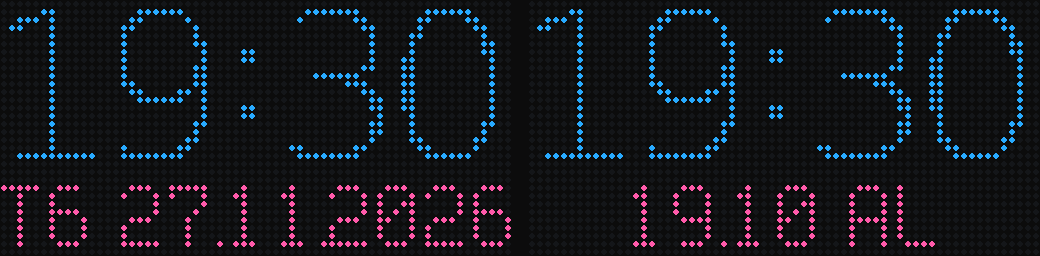
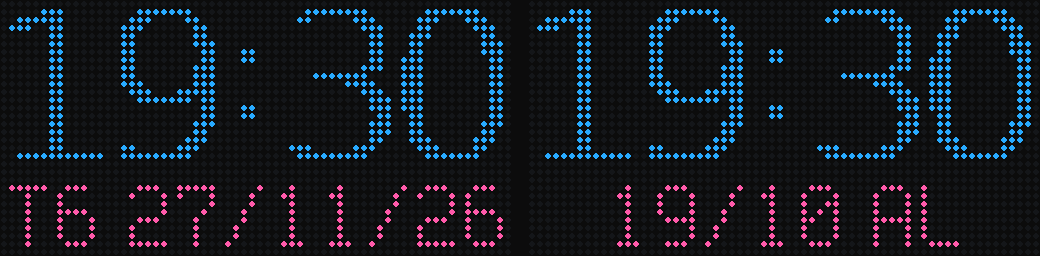
fix: thicken clock digits and use compact slash dates

diff --git a/main/gfx/clock_font.h b/main/gfx/clock_font.h
@@ -1,19 +1,19 @@
 // Sinh bằng tools/gen_clock_font.py. Không sửa tay.
-// Giờ: DejaVu Sans ExtraLight (Bitstream Vera/DejaVu).
+// Giờ: DejaVu Sans ExtraLight, thêm nét 1 px (Bitstream Vera/DejaVu).
 // Lịch: Spleen 6x12, Frederic Cambus (BSD-2-Clause).
 #pragma once
 #include <stdint.h>
 static const uint16_t CLOCK_DIGITS[10][19] = {
-    {0x3f0, 0x618, 0x40c, 0xc04, 0x806, 0x806, 0x1802, 0x1802, 0x1802, 0x1802, 0x1802, 0x1802, 0x1802, 0x802, 0x806, 0x804, 0xc0c, 0x608, 0x3f0},
-    {0xc0, 0x740, 0xc40, 0x40, 0x40, 0x40, 0x40, 0x40, 0x40, 0x40, 0x40, 0x40, 0x40, 0x40, 0x40, 0x40, 0x40, 0x40, 0x7fe},
-    {0x7f0, 0x1818, 0x100c, 0x4, 0x4, 0x4, 0x4, 0xc, 0x8, 0x10, 0x20, 0x40, 0x80, 0x180, 0x300, 0x600, 0xc00, 0x1800, 0x1ffe},
-    {0x7f0, 0x818, 0xc, 0x4, 0x4, 0x4, 0x4, 0xc, 0x3f0, 0x38, 0xc, 0x6, 0x6, 0x2, 0x6, 0x6, 0x4, 0x1818, 0xff0},
-    {0x1c, 0x1c, 0x2c, 0x6c, 0x4c, 0x8c, 0x18c, 0x10c, 0x20c, 0x60c, 0x40c, 0xc0c, 0x180c, 0x1fff, 0xc, 0xc, 0xc, 0xc, 0xc},
-    {0xff8, 0xc00, 0xc00, 0xc00, 0xc00, 0xc00, 0xc00, 0xfe0, 0xc38, 0xc, 0x4, 0x6, 0x6, 0x6, 0x4, 0x4, 0xc, 0x18, 0xff0},
-    {0x1fc, 0x300, 0x600, 0x400, 0x800, 0x800, 0x800, 0x9f0, 0xa0c, 0xc04, 0xc06, 0x802, 0x802, 0x802, 0x802, 0xc02, 0x404, 0x20c, 0x1f8},
-    {0x1ffe, 0x6, 0x4, 0xc, 0x8, 0x8, 0x18, 0x10, 0x30, 0x20, 0x20, 0x60, 0x40, 0x40, 0xc0, 0x80, 0x180, 0x100, 0x100},
-    {0x3f8, 0x60c, 0xc04, 0x806, 0x806, 0x806, 0xc04, 0x40c, 0x3b8, 0x3f8, 0xc0c, 0x806, 0x802, 0x1802, 0x1802, 0x802, 0x806, 0x40c, 0x3f8},
-    {0x3f0, 0x608, 0xc04, 0x804, 0x806, 0x802, 0x802, 0x806, 0x806, 0xc06, 0x61a, 0x3f2, 0x2, 0x2, 0x6, 0x4, 0xc, 0x818, 0xff0},
+    {0x3f8, 0x71c, 0x60e, 0xe06, 0xc07, 0xc07, 0x1c03, 0x1c03, 0x1c03, 0x1c03, 0x1c03, 0x1c03, 0x1c03, 0xc03, 0xc07, 0xc06, 0xe0e, 0x70c, 0x3f8},
+    {0xe0, 0x7e0, 0xe60, 0x60, 0x60, 0x60, 0x60, 0x60, 0x60, 0x60, 0x60, 0x60, 0x60, 0x60, 0x60, 0x60, 0x60, 0x60, 0x7ff},
+    {0x7f8, 0x1c1c, 0x180e, 0x6, 0x6, 0x6, 0x6, 0xe, 0xc, 0x18, 0x30, 0x60, 0xc0, 0x1c0, 0x380, 0x700, 0xe00, 0x1c00, 0x1fff},
+    {0x7f8, 0xc1c, 0xe, 0x6, 0x6, 0x6, 0x6, 0xe, 0x3f8, 0x3c, 0xe, 0x7, 0x7, 0x3, 0x7, 0x7, 0x6, 0x1c1c, 0xff8},
+    {0x1e, 0x1e, 0x3e, 0x7e, 0x6e, 0xce, 0x1ce, 0x18e, 0x30e, 0x70e, 0x60e, 0xe0e, 0x1c0e, 0x1fff, 0xe, 0xe, 0xe, 0xe, 0xe},
+    {0xffc, 0xe00, 0xe00, 0xe00, 0xe00, 0xe00, 0xe00, 0xff0, 0xe3c, 0xe, 0x6, 0x7, 0x7, 0x7, 0x6, 0x6, 0xe, 0x1c, 0xff8},
+    {0x1fe, 0x380, 0x700, 0x600, 0xc00, 0xc00, 0xc00, 0xdf8, 0xf0e, 0xe06, 0xe07, 0xc03, 0xc03, 0xc03, 0xc03, 0xe03, 0x606, 0x30e, 0x1fc},
+    {0x1fff, 0x7, 0x6, 0xe, 0xc, 0xc, 0x1c, 0x18, 0x38, 0x30, 0x30, 0x70, 0x60, 0x60, 0xe0, 0xc0, 0x1c0, 0x180, 0x180},
+    {0x3fc, 0x70e, 0xe06, 0xc07, 0xc07, 0xc07, 0xe06, 0x60e, 0x3fc, 0x3fc, 0xe0e, 0xc07, 0xc03, 0x1c03, 0x1c03, 0xc03, 0xc07, 0x60e, 0x3fc},
+    {0x3f8, 0x70c, 0xe06, 0xc06, 0xc07, 0xc03, 0xc03, 0xc07, 0xc07, 0xe07, 0x71f, 0x3fb, 0x3, 0x3, 0x7, 0x6, 0xe, 0xc1c, 0xff8},
 };
 static const char CLOCK_SMALL_CODES[] = "0123456789ACFGILNOTWY:/.- ";
 static const uint8_t CLOCK_SMALL[][8] = {

diff --git a/tools/gen_clock_font.py b/tools/gen_clock_font.py
@@ -22,6 +22,8 @@ for char in '0123456789':
     left = (13 - glyph.width) // 2
     for y in range(19):
         rows.append(sum(1 << (12-x-left) for x in range(glyph.width) if glyph.getpixel((x,y))))
+    # Thêm một pixel ngang vào nét, giới hạn trong ô 13 px.
+    rows = [row | (row >> 1) for row in rows]
     large.append(rows)
 # Chữ lịch pixel gốc 5x8, từ BDF Spleen 6x12 (BSD-2-Clause).
 bdf = (SRC / 'spleen-6x12.bdf').read_text()
@@ -32,7 +34,7 @@ for char in chars:
     rows = [int(line,16) >> 3 for line in block.split('BITMAP\n')[1].split('ENDCHAR')[0].splitlines()]
     small.append(rows[1:9])
 out = ['// Sinh bằng tools/gen_clock_font.py. Không sửa tay.',
-       '// Giờ: DejaVu Sans ExtraLight (Bitstream Vera/DejaVu).',
+       '// Giờ: DejaVu Sans ExtraLight, thêm nét 1 px (Bitstream Vera/DejaVu).',
        '// Lịch: Spleen 6x12, Frederic Cambus (BSD-2-Clause).',
        '#pragma once', '#include <stdint.h>',
        'static const uint16_t CLOCK_DIGITS[10][19] = {']

diff --git a/main/app/clock.cpp b/main/app/clock.cpp
@@ -158,10 +158,10 @@ static void display(void *) {
             char line[32];
             if(phase%2==0) {
                 static const char *WEEKDAYS[]={"CN","T2","T3","T4","T5","T6","T7"};
-                snprintf(line,sizeof(line),"%s %02d.%02d.%04d",WEEKDAYS[t.tm_wday],t.tm_mday,t.tm_mon+1,t.tm_year+1900);
+                snprintf(line,sizeof(line),"%s %02d/%02d/%02d",WEEKDAYS[t.tm_wday],t.tm_mday,t.tm_mon+1,(t.tm_year+1900)%100);
             } else {
                 const auto l=lunar_date(t.tm_mday,t.tm_mon+1,t.tm_year+1900);
-                snprintf(line,sizeof(line),"%02d.%02d AL%s",l.day,l.month,l.leap?"N":"");
+                snprintf(line,sizeof(line),"%02d/%02d AL%s",l.day,l.month,l.leap?"N":"");
             }
             // Trượt lịch mới lên từ dưới; chỉ cắt trong vùng lịch, giờ luôn đứng yên.
             const int remaining=entering?CLOCK_CALENDAR_TRANSITION_MS-elapsed:0;

diff --git a/tools/test_clock_layout.cpp b/tools/test_clock_layout.cpp
@@ -24,11 +24,11 @@ int main() {
     char text[32];
     for(const char *wd:{"CN","T2","T3","T4","T5","T6","T7"})
       for(int d=1;d<=31;++d)for(int m=1;m<=12;++m) {
-        snprintf(text,sizeof(text),"%s %02d.%02d.2026",wd,d,m);
+        snprintf(text,sizeof(text),"%s %02d/%02d/26",wd,d,m);
         assert(clock_face_date_width(text)<=64);
         for(int offset=-10;offset<=10;++offset) clock_face_date(text,offset,{255,255,255});
       }
-    for(const char *lunar:{"19.10 AL","29.12 ALN"}) {
+    for(const char *lunar:{"19/10 AL","29/12 ALN"}) {
         assert(clock_face_date_width(lunar)<=64);
         for(int offset=-10;offset<=10;++offset) clock_face_date(lunar,offset,{255,255,255});
     }

diff --git a/README.md b/README.md
@@ -6,7 +6,7 @@ Nhánh `feature/p5-clock` chuyển ứng dụng sang đồng hồ Việt Nam (UT
 
 - Chỉ hai hàng: giờ/phút 24 giờ cao **19 px**, lịch bitmap cao **8 px** (nét gốc, không kéo giãn).
 - Dấu hai chấm bật/tắt theo từng giây; màu giờ và lịch thay đổi theo giờ trong ngày.
-- Hàng lịch luân phiên mỗi **6 giây**: `T6 27.11.2026` và `19.10 AL` (thêm `N` nếu tháng nhuận).
+- Hàng lịch luân phiên mỗi **6 giây**: `T6 27/11/26` và `19/10 AL` (thêm `N` nếu tháng nhuận).
 - Khi đổi lịch, dòng mới trượt lên trong **400 ms**; giờ luôn đứng yên. Có thể chỉnh trong `main/config/app_config.h`.
 - Âm lịch tính tại máy theo UTC+7, có tháng nhuận; không phụ thuộc API lịch.
 - Sau đồng bộ NTP thành công, tắt Wi-Fi hoàn toàn 24 giờ. Tác vụ chờ giữa các lần cập nhật; DMA tiếp tục quét LED. Độ sáng mặc định 48/255.
@@ -60,7 +60,7 @@ Mã ứng dụng bảng chữ/ghép màn hình cũ vẫn được giữ làm tha
 
 ## Font đồng hồ
 
-Số giờ được raster hóa trực tiếp từ DejaVu Sans ExtraLight ở cỡ gốc 19 px; lịch dùng Spleen 6x12, phần nét cao 8 px. Không dùng số bảy đoạn hay kéo bitmap 3x5. Bitmap đã sinh được commit nên build ESP-IDF không cần Pillow.
+Số giờ được raster hóa từ DejaVu Sans ExtraLight ở cỡ gốc 19 px, thêm nét ngang 1 px cho dễ đọc; lịch dùng Spleen 6x12, phần nét cao 8 px. Không dùng số bảy đoạn hay kéo bitmap 3x5. Bitmap đã sinh được commit nên build ESP-IDF không cần Pillow.
 
 Sinh lại bằng `python tools/gen_clock_font.py` (cần Pillow). Giấy phép: `tools/gen_fonts/font_src/LICENSE-DejaVu.txt`, `tools/gen_fonts/font_src/LICENSE-Spleen.txt`.
 

diff --git a/CHANGELOG.md b/CHANGELOG.md
@@ -1,3 +1,8 @@
+# 2.2.1 — Nét giờ đậm hơn và lịch dùng dấu /
+
+- Tăng nét số giờ thêm 1 px ngang, giữ bố cục.
+- Lịch dương `T6 27/11/26`, lịch âm `19/10 AL`.
+
 # 2.2.0 — Font bitmap tự nhiên và chọn Wi-Fi
 
 - Font số DejaVu ExtraLight 19 px, lịch Spleen 8 px: không kéo giãn, không dùng bảy đoạn.
